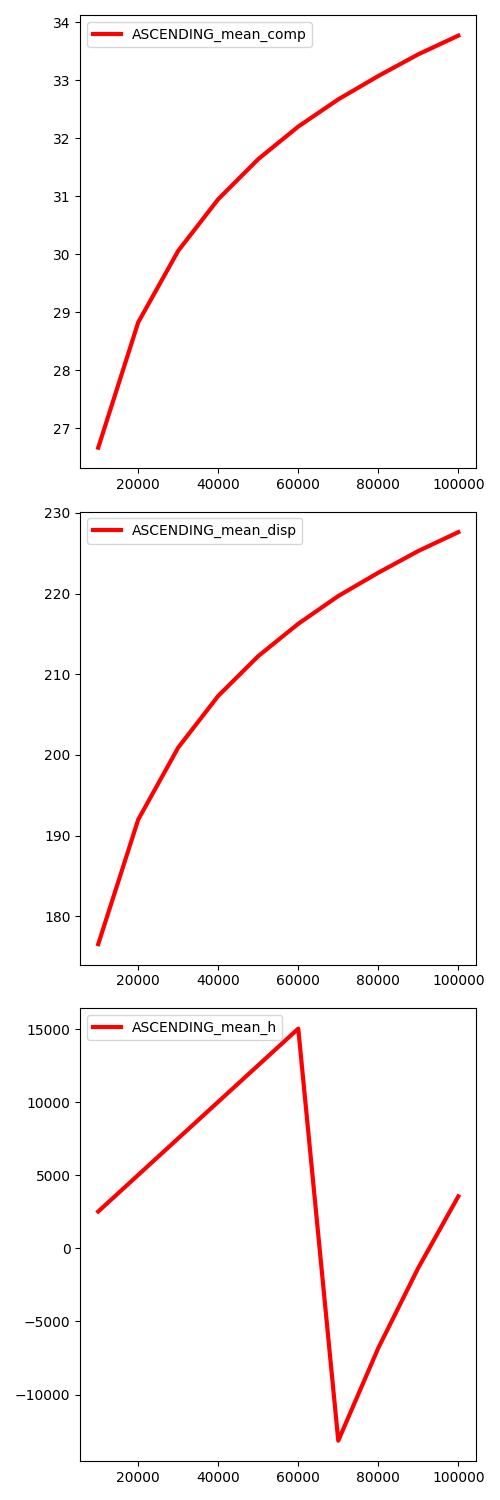
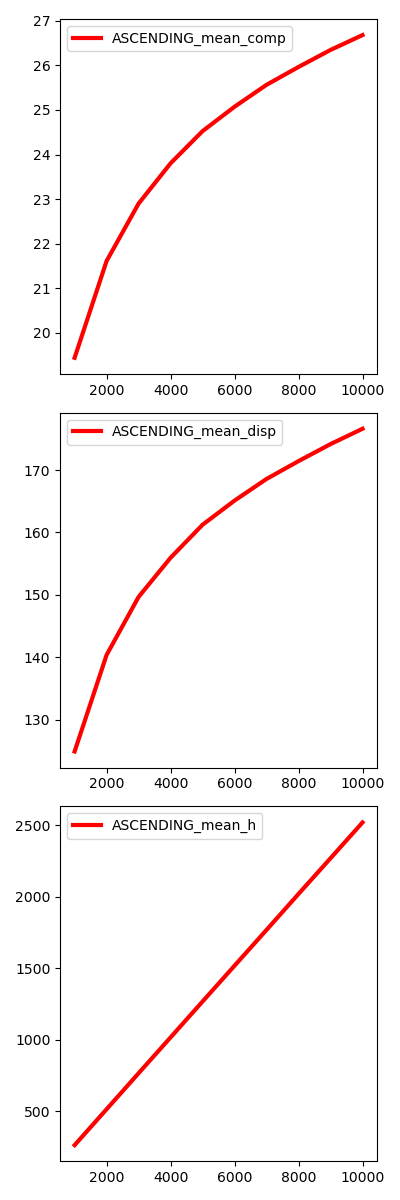
fix plots

diff --git a/AISD/Lista4/src/Red_black_tree.cpp b/AISD/Lista4/src/Red_black_tree.cpp
@@ -119,7 +119,7 @@ void Red_black_tree::insert_Node(int key){
     {
         amount_of_read_and_displacements++;
         y = x;
-        amount_of_comparisons += 2;
+        amount_of_comparisons += 1;
         if (z->key < x->key)
         {
             amount_of_read_and_displacements++;
@@ -127,7 +127,6 @@ void Red_black_tree::insert_Node(int key){
         }
         else
         {
-            amount_of_comparisons++;
             amount_of_read_and_displacements++;
             x = x->right;
         }
@@ -142,13 +141,13 @@ void Red_black_tree::insert_Node(int key){
     }
     else if (z->key < y->key)
     {
-        amount_of_comparisons += 2;
+        amount_of_comparisons += 1;
         amount_of_read_and_displacements++;
         y->left = z;
     }
     else
     {
-        amount_of_comparisons += 3;
+        amount_of_comparisons += 1;
         amount_of_read_and_displacements++;
         y->right = z;
     }
@@ -165,7 +164,6 @@ void Red_black_tree::insert_fixup(Node* z)
 { 
     amount_of_read_and_displacements++;
     Node* y = NULL;
-    amount_of_comparisons++;
     while (z->parent->color == 'R')
     {
         amount_of_read_and_displacements++;
@@ -173,7 +171,6 @@ void Red_black_tree::insert_fixup(Node* z)
         {
             amount_of_read_and_displacements++;
             y = z->parent->parent->right;
-            amount_of_comparisons++;
             if (y->color == 'R')
             {
                 z->parent->color = 'B';                 
@@ -184,7 +181,6 @@ void Red_black_tree::insert_fixup(Node* z)
             }
             else 
             {
-                amount_of_comparisons++;
                 amount_of_read_and_displacements++;
                 if (z == z->parent->right)
                 {
@@ -193,16 +189,14 @@ void Red_black_tree::insert_fixup(Node* z)
                     left_rotate(z);                
                 }
                 z->parent->color = 'B';              
-                z->parent->parent->color = 'R';  
-                amount_of_read_and_displacements++;      
+                z->parent->parent->color = 'R';      
                 right_rotate(z->parent->parent);
             }
-        } //ok
+        } 
         else if (z->parent == z->parent->parent->right)
         {
             amount_of_read_and_displacements += 2;
             y = z->parent->parent->left;
-            amount_of_comparisons++;
             if (y->color == 'R')
             {
                 z->parent->color = 'B';                 
@@ -213,7 +207,6 @@ void Red_black_tree::insert_fixup(Node* z)
             }
             else 
             {
-                amount_of_comparisons++;
                 amount_of_read_and_displacements++;
                 if (z == z->parent->left)
                 {
@@ -223,7 +216,6 @@ void Red_black_tree::insert_fixup(Node* z)
                 }
                 z->parent->color = 'B';                
                 z->parent->parent->color = 'R';  
-                amount_of_read_and_displacements++;      
                 left_rotate(z->parent->parent); 
             }
         }
@@ -247,7 +239,7 @@ void Red_black_tree::transplant(Node* u, Node* v)
     }
     else
     {
-        amount_of_read_and_displacements += 3;
+        amount_of_read_and_displacements += 2;
         u->parent->right = v;
     }
     amount_of_read_and_displacements++;
@@ -257,23 +249,20 @@ void Red_black_tree::transplant(Node* u, Node* v)
 Node* Red_black_tree::tree_search(Node* node, int key){
 
     amount_of_read_and_displacements++;
-    amount_of_comparisons++;
     if (node == T_nil || key == node->key)
         return node;  
-    amount_of_comparisons++;
     if (key < node->key)
         return tree_search(node->left, key);
     else{
-        amount_of_comparisons++;
         return tree_search(node->right, key);
     }
 }
 
 Node* Red_black_tree::tree_minimum(Node* node){
     Node* x = node; 
-    amount_of_read_and_displacements += 2;
+    amount_of_read_and_displacements += 1;
     while(x->left != T_nil){
-        amount_of_read_and_displacements++;
+        amount_of_read_and_displacements+=2;
         x = x->left;
     } 
     return x;
@@ -281,13 +270,11 @@ Node* Red_black_tree::tree_minimum(Node* node){
 
 void Red_black_tree::delete_Node(int key)
 {
-    amount_of_read_and_displacements++;
     Node* z = tree_search(root, key);
     amount_of_read_and_displacements++;
     if (z == T_nil)
         return;
     
-    amount_of_read_and_displacements += 2;
     Node* y = z;
     Node* x = NULL;
     char y_original_color = y->color;
@@ -309,7 +296,7 @@ void Red_black_tree::delete_Node(int key)
     {
         amount_of_read_and_displacements += 2;
 
-        amount_of_read_and_displacements += 2;
+        amount_of_read_and_displacements += 1;
         y = tree_minimum(z->right);
         y_original_color = y->color;
         x = y->right;
@@ -342,10 +329,8 @@ void Red_black_tree::delete_Node(int key)
 
 void Red_black_tree::delete_fixup(Node* x)
 {
-    amount_of_read_and_displacements++;
     Node* w = NULL;
 
-    amount_of_comparisons++;
     amount_of_read_and_displacements++;
     while (x != root && x->color == 'B')
     {
@@ -354,7 +339,6 @@ void Red_black_tree::delete_fixup(Node* x)
         {
             amount_of_read_and_displacements++;
             w = x->parent->right;
-            amount_of_comparisons++;
             if (w->color == 'R')
             {
                 w->color = 'B';
@@ -365,16 +349,12 @@ void Red_black_tree::delete_fixup(Node* x)
             }
             if (w->left->color == 'B' && w->right->color == 'B')
             {
-                amount_of_comparisons += 2;
                 w->color = 'R';
                 amount_of_read_and_displacements++;
                 x = x->parent;
             }
             else
             {
-                amount_of_comparisons += 3;
-
-                amount_of_comparisons++;
                 if (w->right->color == 'B')
                 {
                     w->left->color = 'B';
@@ -392,10 +372,9 @@ void Red_black_tree::delete_fixup(Node* x)
             }
         }
         else
-        {   amount_of_read_and_displacements += 2;
+        {   amount_of_read_and_displacements += 1;
             w = x->parent->left;
             
-            amount_of_comparisons++;
             if (w->color == 'R')
             {
                 w->color = 'B';
@@ -404,7 +383,6 @@ void Red_black_tree::delete_fixup(Node* x)
                 amount_of_read_and_displacements++;
                 w = x->parent->left;
             }
-            amount_of_comparisons += 2;
             if (w->left->color == 'B' && w->right->color == 'B')
             {
                 w->color = 'R';
@@ -413,7 +391,6 @@ void Red_black_tree::delete_fixup(Node* x)
             }
             else
             {
-                amount_of_comparisons += 2;
                 if (w->left->color == 'B')
                 {
                     w->right->color = 'B';
@@ -513,10 +490,10 @@ void Red_black_tree::print_indent(int indent, std::vector<int> road){
 int main(int argc, char** argv){
     int n;
     bool should_print = false;
-    int height = 0;
-    int max_height = 0;
-    int max_comparisons_diff = 0;
-    int max_displacements_diff = 0;
+    long long height = 0;
+    long long max_height = 0;
+    long long max_comparisons_diff = 0;
+    long long max_displacements_diff = 0;
     std::cin >> n;
     int delete_arr[n];
     for (int i = 0; i < n ; i++){
@@ -541,14 +518,12 @@ int main(int argc, char** argv){
     if(should_print)
         std::cout << "========== INSERTING ======== " << std::endl;
     for(int i = 0; i < n; i++){
-        int prev_comparisons = tree->get_amount_of_comparisons();
-        int prev_displacements = tree->get_amount_of_displacements();
-
+        long long prev_comparisons = tree->get_amount_of_comparisons();
+        long long prev_displacements = tree->get_amount_of_displacements();
         tree->insert_Node(source_arr[i]);
-
-        int comparisons_diff = tree->get_amount_of_comparisons(); - prev_comparisons;
-        int displacements_diff = tree->get_amount_of_displacements(); - prev_displacements;
-        int h = tree->height();
+        long long comparisons_diff = tree->get_amount_of_comparisons() - prev_comparisons;
+        long long displacements_diff = tree->get_amount_of_displacements() - prev_displacements;
+        long long h = tree->height();
         height += h;
         if(h > max_height) max_height = h;
         if(comparisons_diff > max_comparisons_diff)
@@ -565,14 +540,14 @@ int main(int argc, char** argv){
     if(should_print)
         std::cout << "======= REMOVING ======" << std::endl;
     for(int i = 0; i < n; i++){
-        int prev_comparisons = tree->get_amount_of_comparisons();
-        int prev_displacements = tree->get_amount_of_displacements();
+        long long prev_comparisons = tree->get_amount_of_comparisons();
+        long long prev_displacements = tree->get_amount_of_displacements();
 
         tree->delete_Node(delete_arr[i]);
 
-        int comparisons_diff = tree->get_amount_of_comparisons(); - prev_comparisons;
-        int displacements_diff = tree->get_amount_of_displacements(); - prev_displacements;
-        int h = tree->height();
+        long long comparisons_diff = tree->get_amount_of_comparisons() - prev_comparisons;
+        long long displacements_diff = tree->get_amount_of_displacements() - prev_displacements;
+        long long h = tree->height();
         height += h;
         if(h > max_height) max_height = h;
         if(comparisons_diff > max_comparisons_diff)

diff --git a/AISD/Lista4/src/SplayTree_test.cpp b/AISD/Lista4/src/SplayTree_test.cpp
@@ -37,8 +37,8 @@ int main(int argc, char** argv){
 
         tree->insert(source_arr[i]);
 
-        long long comparisons_diff = tree->get_amount_of_comparisons(); - prev_comparisons;
-        long long displacements_diff = tree->get_amount_of_displacements(); - prev_displacements;
+        long long comparisons_diff = tree->get_amount_of_comparisons() - prev_comparisons;
+        long long displacements_diff = tree->get_amount_of_displacements() - prev_displacements;
         long long h = tree->height();
         height += h;
         if(h > max_height) max_height = h;
@@ -61,8 +61,8 @@ int main(int argc, char** argv){
 
         tree->deleteNode(delete_arr[i]);
 
-        long long comparisons_diff = tree->get_amount_of_comparisons(); - prev_comparisons;
-        long long displacements_diff = tree->get_amount_of_displacements(); - prev_displacements;
+        long long comparisons_diff = tree->get_amount_of_comparisons() - prev_comparisons;
+        long long displacements_diff = tree->get_amount_of_displacements() - prev_displacements;
         long long h = tree->height();
         height += h;
         if(h > max_height) max_height = h;

diff --git a/AISD/Lista4/src/BST_test.cpp b/AISD/Lista4/src/BST_test.cpp
@@ -37,8 +37,8 @@ int main(int argc, char** argv){
 
         tree->insert(source_arr[i]);
 
-        long long comparisons_diff = tree->get_amount_of_comparisons(); - prev_comparisons;
-        long long displacements_diff = tree->get_amount_of_displacements(); - prev_displacements;
+        long long comparisons_diff = tree->get_amount_of_comparisons() - prev_comparisons;
+        long long displacements_diff = tree->get_amount_of_displacements() - prev_displacements;
         long long h = tree->height();
         height += h;
         if(h > max_height) max_height = h;
@@ -61,8 +61,8 @@ int main(int argc, char** argv){
 
         tree->remove(delete_arr[i]);
 
-        long long comparisons_diff = tree->get_amount_of_comparisons(); - prev_comparisons;
-        long long displacements_diff = tree->get_amount_of_displacements(); - prev_displacements;
+        long long comparisons_diff = tree->get_amount_of_comparisons() - prev_comparisons;
+        long long displacements_diff = tree->get_amount_of_displacements() - prev_displacements;
         long long h = tree->height();
         height += h;
         if(h > max_height) max_height = h;

diff --git a/AISD/Lista4/zad4/run.py b/AISD/Lista4/zad4/run.py
@@ -11,7 +11,7 @@ import json
 OUTPUT_FILE="data.json"
 PROGRAMS_PATH = "../programs/"
 GENERATE_PATH = PROGRAMS_PATH + "rand_gen"
-TESTFILE_PATH = PROGRAMS_PATH + "BST_test"
+TESTFILE_PATH = PROGRAMS_PATH + "Red_black_tree"
 MUL = 10000
 START = 1 * MUL
 END = 10 * MUL + 1
@@ -42,7 +42,6 @@ for insert_type, n, i in pbar:
     data[insert_type][n]['max_comp'] += max_comp
     data[insert_type][n]['max_disp'] += max_disp
     data[insert_type][n]['max_h'] += max_h
-
 for insert_type, n in product(INSERT_TYPES, range(START, END, STEP)):
     data[insert_type][n]['mean_comp'] /= AMOUNT_OF_TIMES_TO_REPEAT
     data[insert_type][n]['mean_disp'] /= AMOUNT_OF_TIMES_TO_REPEAT

diff --git a/AISD/Lista4/zad2/visualise.py b/AISD/Lista4/zad2/visualise.py
@@ -38,7 +38,7 @@ for insert_type, keys_name in product(INSERT_TYPES, ["max", "mean"]):
     keys = max_keys if keys_name == "max" else mean_keys
     axs: List[List[plt.Axes]]
     fig: plt.Figure
-    fig, axs = plt.subplots(len(keys), 1, figsize=(10, len(keys)*10))
+    fig, axs = plt.subplots(len(keys), 1, figsize=(4, len(keys)*4))
     
     for i, key in enumerate(keys):
         axs[i].plot(Xs, plot[(insert_type, key)], label=f"{insert_type}_{key}", linewidth=LINEWIDTH, color='red')

diff --git a/AISD/Lista4/zad4/visualise.py b/AISD/Lista4/zad4/visualise.py
@@ -38,7 +38,7 @@ for insert_type, keys_name in product(INSERT_TYPES, ["max", "mean"]):
     keys = max_keys if keys_name == "max" else mean_keys
     axs: List[List[plt.Axes]]
     fig: plt.Figure
-    fig, axs = plt.subplots(len(keys), 1, figsize=(10, len(keys)*10))
+    fig, axs = plt.subplots(len(keys), 1, figsize=(4, len(keys)*4))
     
     for i, key in enumerate(keys):
         axs[i].plot(Xs, plot[(insert_type, key)], label=f"{insert_type}_{key}", linewidth=LINEWIDTH, color='red')

diff --git a/AISD/Lista4/zad6/visualise.py b/AISD/Lista4/zad6/visualise.py
@@ -38,7 +38,7 @@ for insert_type, keys_name in product(INSERT_TYPES, ["max", "mean"]):
     keys = max_keys if keys_name == "max" else mean_keys
     axs: List[List[plt.Axes]]
     fig: plt.Figure
-    fig, axs = plt.subplots(len(keys), 1, figsize=(5, len(keys)*5))
+    fig, axs = plt.subplots(len(keys), 1, figsize=(4, len(keys)*4))
     
     for i, key in enumerate(keys):
         axs[i].plot(Xs, plot[(insert_type, key)], label=f"{insert_type}_{key}", linewidth=LINEWIDTH, color='red')

diff --git a/AISD/Lista4/zad6/run.py b/AISD/Lista4/zad6/run.py
@@ -11,7 +11,7 @@ import json
 OUTPUT_FILE="data.json"
 PROGRAMS_PATH = "../programs/"
 GENERATE_PATH = PROGRAMS_PATH + "rand_gen"
-TESTFILE_PATH = PROGRAMS_PATH + "SplayTree"
+TESTFILE_PATH = PROGRAMS_PATH + "SplayTree_test"
 MUL = 10000
 START = 1 * MUL
 END = 10 * MUL + 1
